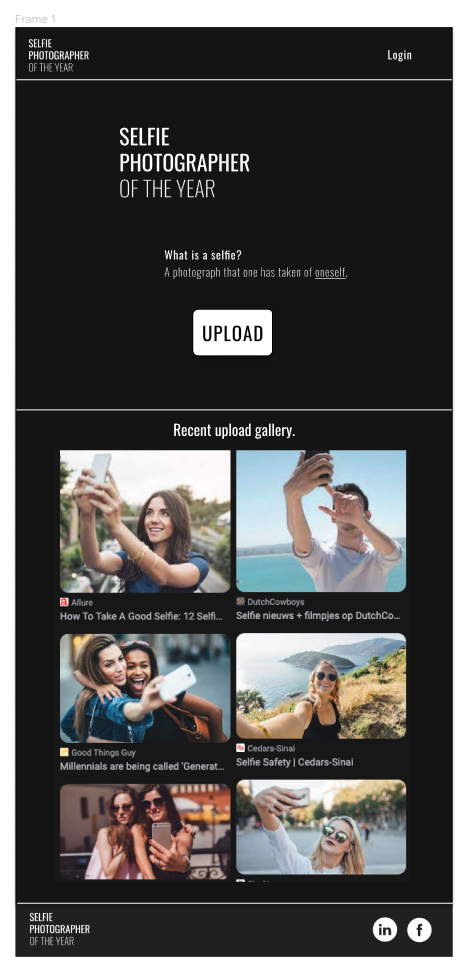
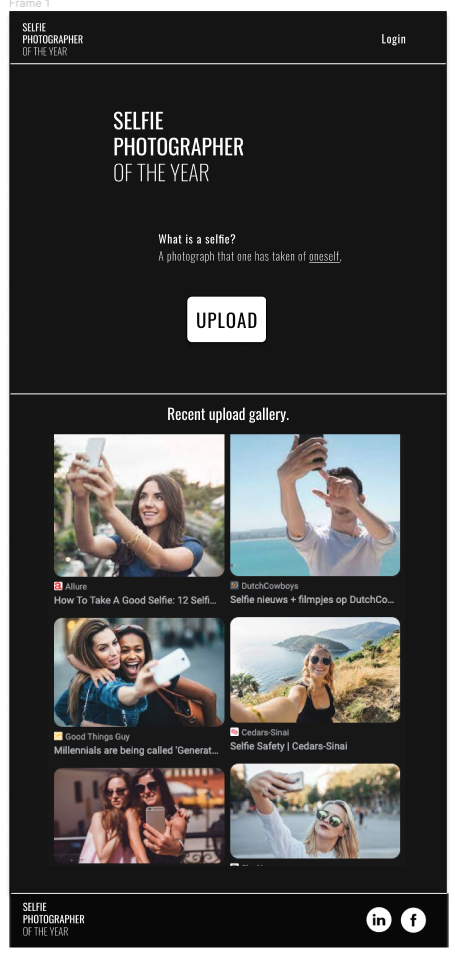
working on proposal

Changed region(s): [[0.0, 0.0, 1.0, 0.9979], [0.3385, 0.2419, 0.7385, 0.3629], [0.4923, 0.8165, 0.5231, 0.8467]]

diff --git a/README.md b/README.md
@@ -48,7 +48,7 @@ I am going to build a SPA with two pages. The home page is where you can upload 
 
 Provide visuals of your app's screens. You can use tools like Figma or pictures of hand-drawn sketches.
 
-![figma mockup](https://www.figma.com/file/51xxefRjaIPqvRC0eLtPg5/Untitled?type=design&node-id=0%3A1&mode=design&t=E5oeOvJK2Jks1XJZ-1)
+![figma mockup](assets/images/mockup.png)
 
 ### Data
 
